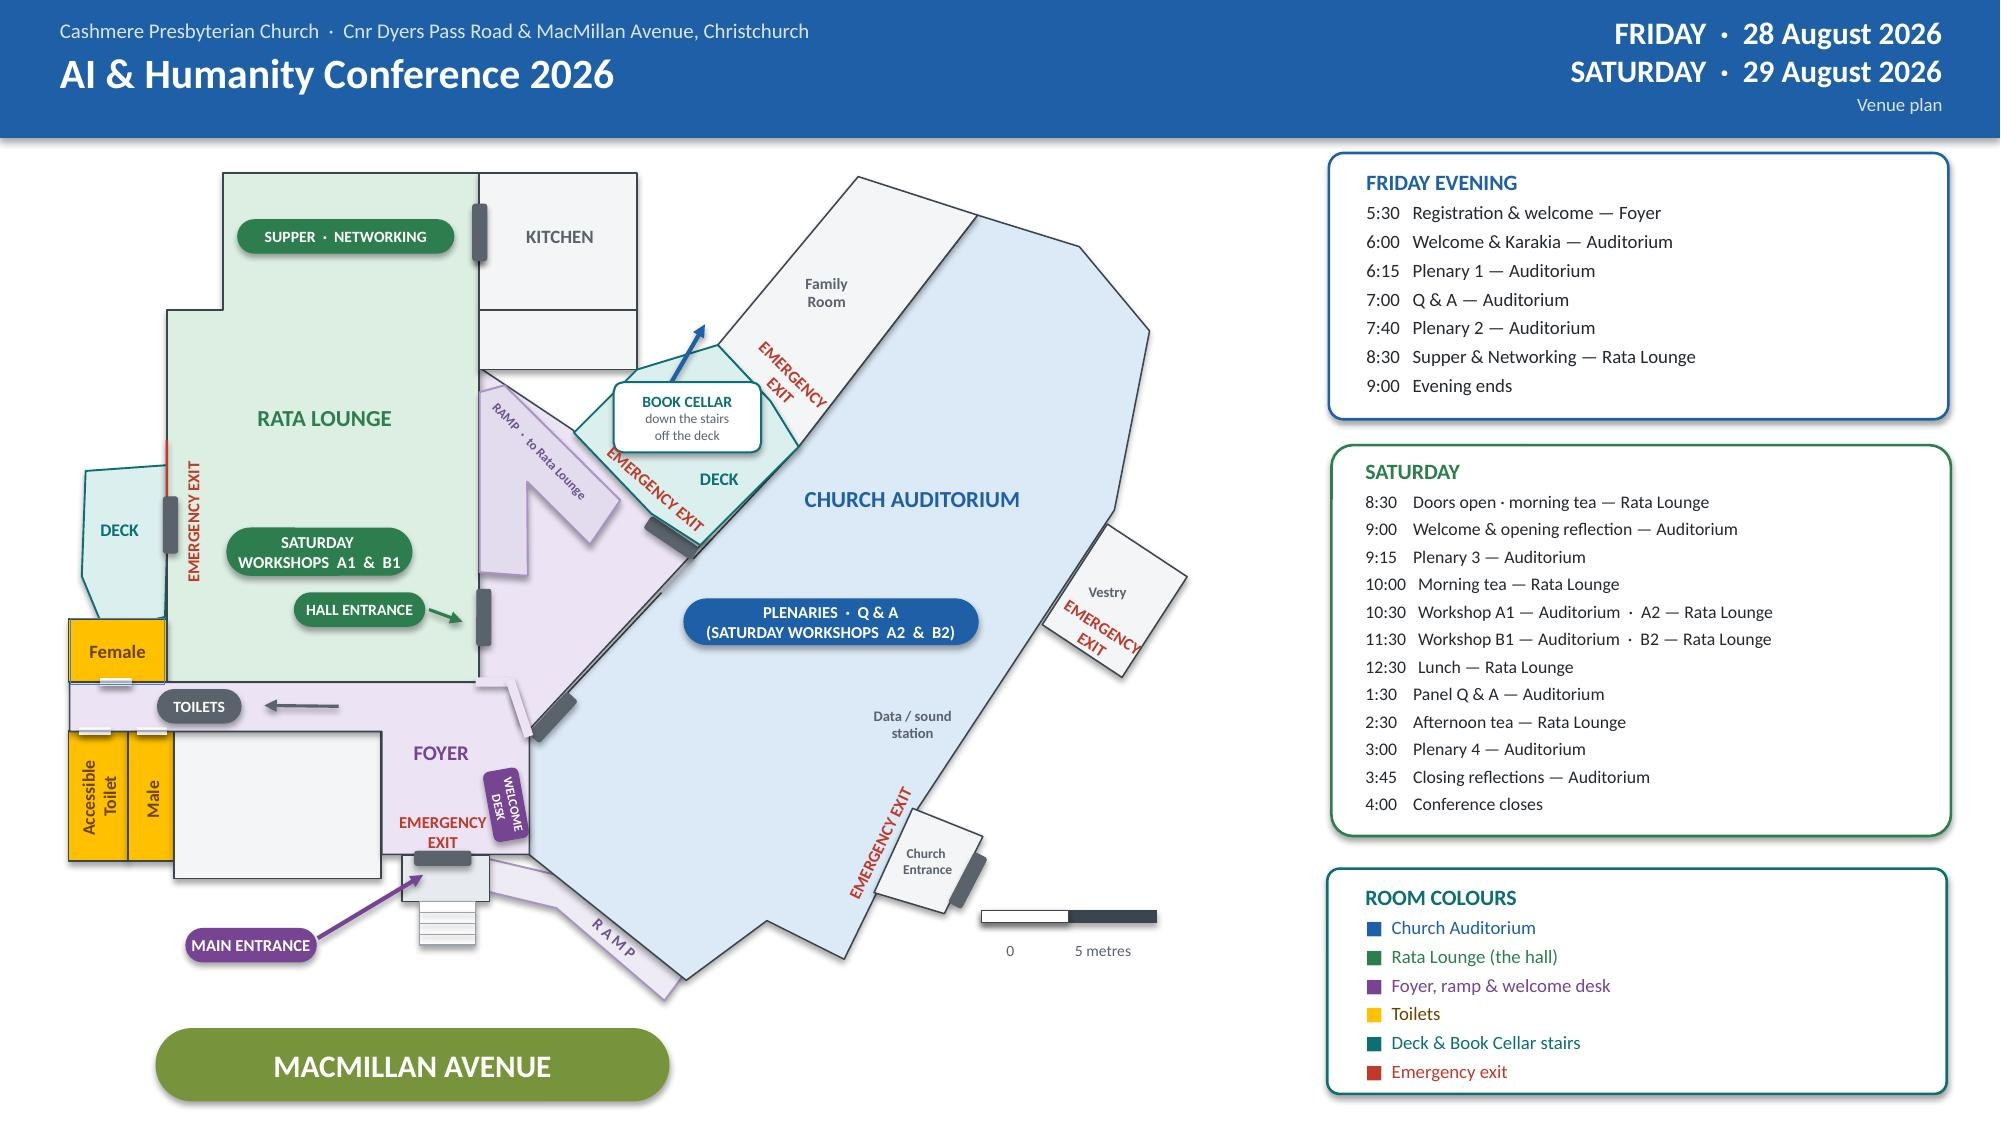
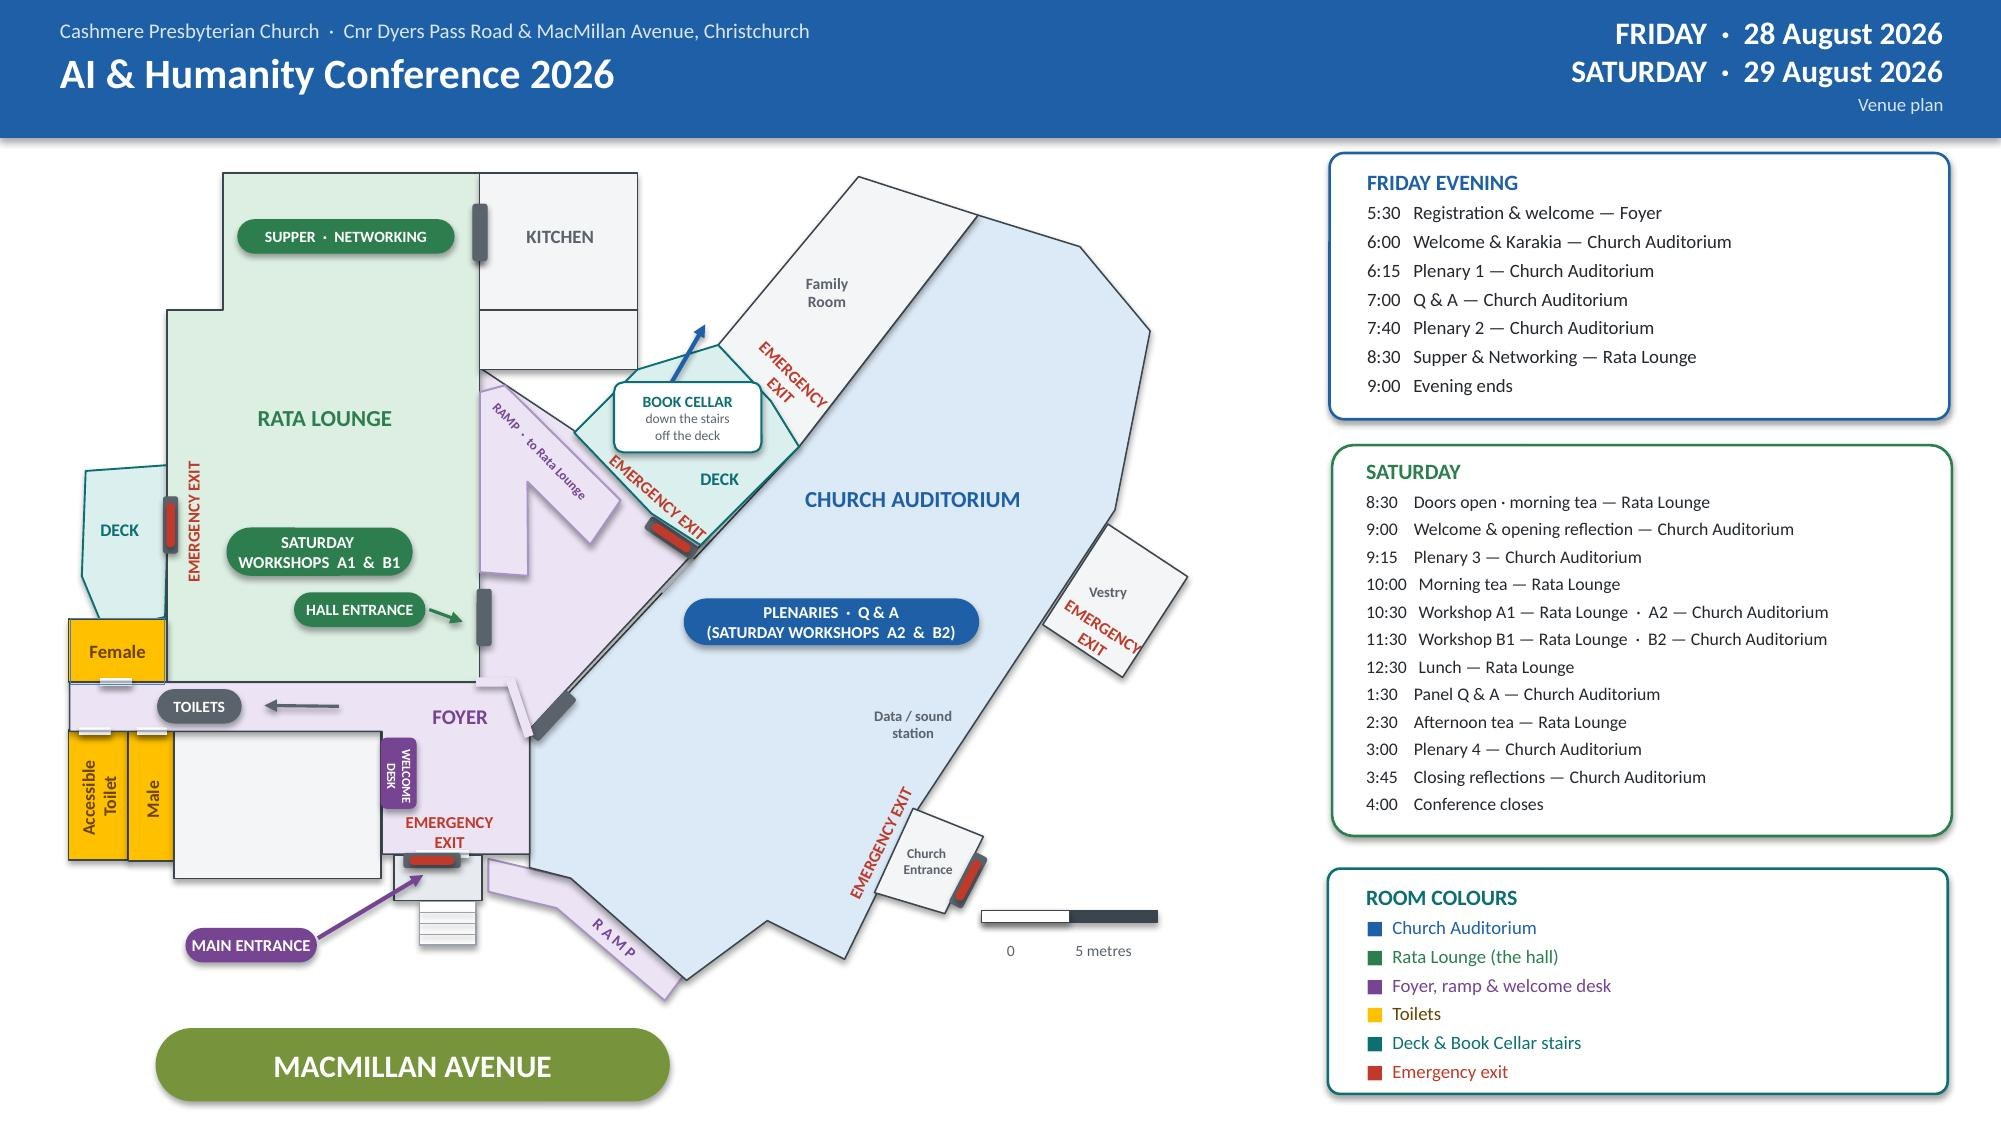
Add files via upload

diff --git a/index.html b/index.html
@@ -577,7 +577,7 @@
   <div class="speaker">
     <button class="sp-head">
       <img class="sp-photo" alt="Dr Stephen Garner"
-        src="https://images.humanitix.com/i/edfc0921-d880-434c-a778-ba31842b985a.jpg@responsive-500.webp">
+        src="speaker-garner.jpg">
       <div style="flex:1;min-width:0">
         <div class="sp-name">Dr Stephen Garner</div>
         <div class="sp-role">Senior Research Fellow, Laidlaw College</div>
@@ -594,7 +594,7 @@
   <div class="speaker">
     <button class="sp-head">
       <img class="sp-photo" alt="Dr Matthew Galloway"
-        src="https://images.humanitix.com/i/fffbdb8c-0351-4bb3-901e-a1f4efe99c0c.webp@responsive-500.webp">
+        src="speaker-galloway.jpg">
       <div style="flex:1;min-width:0">
         <div class="sp-name">Dr Matthew Galloway</div>
         <div class="sp-role">Learning Designer for the Ethical Use of AI, Victoria University of Wellington</div>
@@ -611,7 +611,7 @@
   <div class="speaker">
     <button class="sp-head">
       <img class="sp-photo" alt="Professor Kathryn MacCallum"
-        src="https://images.humanitix.com/i/d3647c2a-d387-45c1-9549-774406c054dd.png@responsive-500.webp">
+        src="speaker-maccallum.jpg">
       <div style="flex:1;min-width:0">
         <div class="sp-name">Professor Kathryn MacCallum</div>
         <div class="sp-role">Professor of Education; Co-director, UC Digital Futures Lab</div>
@@ -628,7 +628,7 @@
   <div class="speaker">
     <button class="sp-head">
       <img class="sp-photo" alt="Emma Humphrey"
-        src="https://images.humanitix.com/i/0c7195e9-53dd-458e-9734-b932c3f541a4.jpg@responsive-500.webp">
+        src="speaker-humphrey.jpg">
       <div style="flex:1;min-width:0">
         <div class="sp-name">Emma Humphrey</div>
         <div class="sp-role">AI Safety Specialist, educator &amp; social entrepreneur</div>
@@ -655,13 +655,13 @@
     <h3>Session A <span>&middot; Saturday 10:30 AM</span></h3>
     <div class="wcard">
       <div class="wtop">Workshop A1</div>
-      <div class="wtitle">AI Self Defence</div>
+      <div class="wtitle">AI self defence</div>
       <div class="wwhere">Rata Lounge</div>
 
       <div class="wtopics">
 
         <ul>
-          <li>CV Bias</li>
+          <li>CV bias</li>
           <li>Data on health platforms</li>
           <li>Code control</li>
           <li>Information to third parties</li>
@@ -676,7 +676,7 @@
     </div>
     <div class="wcard">
       <div class="wtop">Workshop A2</div>
-      <div class="wtitle">AI and the Spiritual Life</div>
+      <div class="wtitle">AI and the spiritual life</div>
       <div class="wwhere">Church Auditorium</div>
       <div class="wdesc">Facilitated discussion for those wanting to explore the spiritual and ethical dimensions of AI.</div>
       <div class="wwho">Stephen Garner</div>
@@ -687,7 +687,7 @@
     <h3>Session B <span>&middot; Saturday 11:30 AM</span></h3>
     <div class="wcard">
       <div class="wtop">Workshop B1</div>
-      <div class="wtitle">AI for Learning and Research</div>
+      <div class="wtitle">AI for learning and research</div>
       <div class="wwhere">Rata Lounge</div>
      
       <div class="wtopics">
@@ -702,7 +702,7 @@
     </div>
     <div class="wcard">
       <div class="wtop">Workshop B2</div>
-      <div class="wtitle">Using AI well: A process to help you</div>
+      <div class="wtitle">Using AI well: a process to help you</div>
       <div class="wwhere">Church Auditorium</div>
       <div class="wdesc">Facilitated discussion about a values-led process for negotiating your own use of AI.</div>
       <div class="wwho">Stephen Garner</div>
@@ -730,7 +730,7 @@
   </div>
 
   <a class="btn" href="https://www.google.com/maps/search/?api=1&amp;query=Cashmere%20Presbyterian%20Church%2C%20Cashmere%2C%20Christchurch" target="_blank" rel="noopener">
-    Show the church in Maps
+    Link to Google Maps
   </a>
 
   <h2 class="section">Venue plan</h2>
@@ -791,7 +791,7 @@
     <div class="row"><div class="k">Toilets</div><div class="v">Off the foyer</div></div>
     <div class="row"><div class="k">Rooms</div><div class="v">Plenaries, the Q&amp;A and the panel are in the <strong>Church Auditorium</strong>, along with workshops <strong>A2</strong> and <strong>B2</strong>.<br>Workshops <strong>A1</strong> and <strong>B1</strong>, and all refreshments, are in the <strong>Rata Lounge</strong>.</div></div>
     <div class="row"><div class="k">First aid</div><div class="v">Please visit the Welcome Desk</div></div>
-    <div class="row"><div class="k">Recording</div><div class="v">Sessions will be recorded and will be made available after the conference. The workshops are recorded too, so you can watch any you were unable to attend.</div></div>
+    <div class="row"><div class="k">Recording</div><div class="v">Sessions and workshops will be recorded and will be made available after the conference.</div></div>
 
    
 <!--
@@ -906,3 +906,11 @@
 </script>
 </body>
 </html>
+
+
+
+<script>
+if ('serviceWorker' in navigator) {
+  navigator.serviceWorker.register('/service-worker.js');
+}
+</script>

diff --git a/service-worker.js b/service-worker.js
@@ -1,0 +1,75 @@
+/* AI & Humanity Conference 2026 — offline cache
+   Bump CACHE on every deploy, or returning phones keep the old page. */
+const CACHE = 'ai2026-v2';
+
+const ASSETS = [
+  './',
+  './index.html',
+  './manifest.json',
+  './banner.jpg',
+  './banner.webp',
+  './map-parking.jpg',
+  './map-parking.webp',
+  './venue-plan.jpg',
+  './venue-plan.webp',
+  './sponsor-hope.png',
+  './sponsor-pressgo.png',
+  './speaker-garner.jpg',
+  './speaker-galloway.jpg',
+  './speaker-maccallum.jpg',
+  './speaker-humphrey.jpg',
+  './icon-180.png',
+  './icon-192.png',
+  './icon-512.png'
+];
+
+// Install: cache each file on its own. cache.addAll() is all-or-nothing —
+// one 404 and NOTHING gets cached. This way a missing file costs only that file.
+self.addEventListener('install', event => {
+  event.waitUntil(
+    caches.open(CACHE)
+      .then(cache => Promise.all(
+        ASSETS.map(url =>
+          cache.add(url).catch(err => console.warn('SW: skipped', url, err))
+        )
+      ))
+      .then(() => self.skipWaiting())
+  );
+});
+
+// Activate: bin old caches so a redeploy actually reaches people.
+self.addEventListener('activate', event => {
+  event.waitUntil(
+    caches.keys()
+      .then(keys => Promise.all(
+        keys.filter(k => k !== CACHE).map(k => caches.delete(k))
+      ))
+      .then(() => self.clients.claim())
+  );
+});
+
+// Fetch: stale-while-revalidate. Instant offline, and picks up
+// changes on the next load whenever there IS a connection.
+self.addEventListener('fetch', event => {
+  const req = event.request;
+  if (req.method !== 'GET') return;
+
+  // Leave other origins alone (Humanitix photos, Maps, Metro).
+  if (new URL(req.url).origin !== self.location.origin) return;
+
+  event.respondWith(
+    caches.match(req).then(cached => {
+      const fresh = fetch(req)
+        .then(res => {
+          if (res && res.ok) {
+            const copy = res.clone();
+            caches.open(CACHE).then(c => c.put(req, copy));
+          }
+          return res;
+        })
+        .catch(() => cached);
+
+      return cached || fresh;
+    })
+  );
+});
